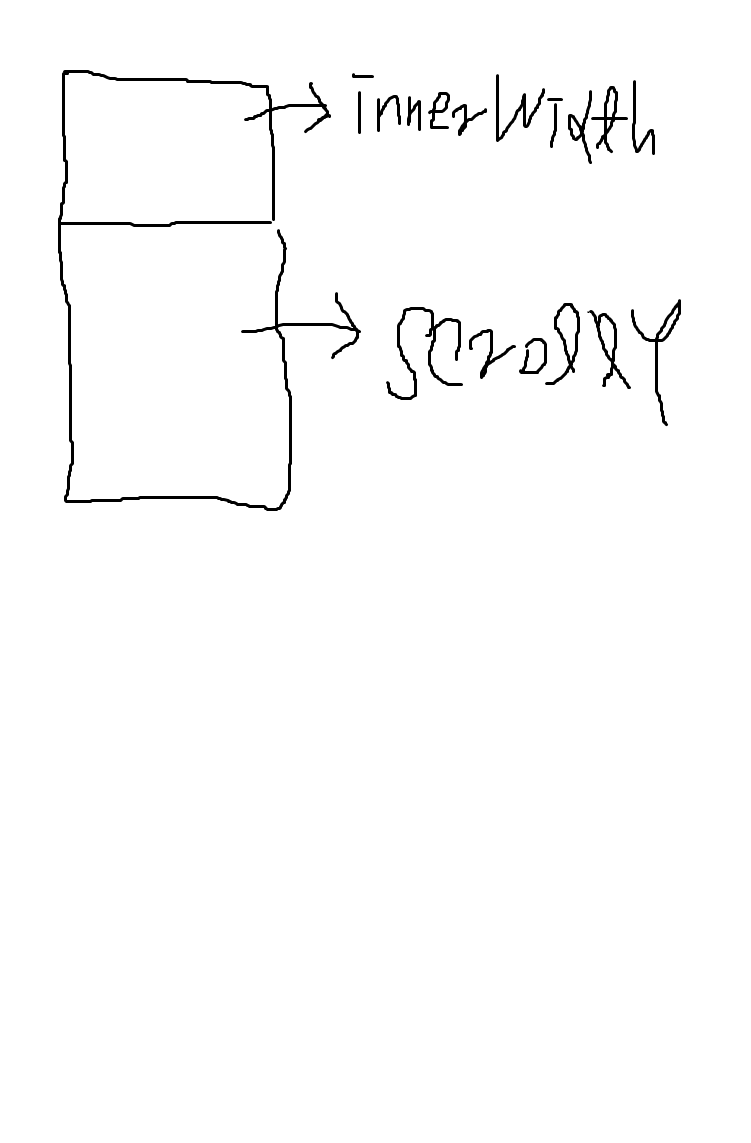
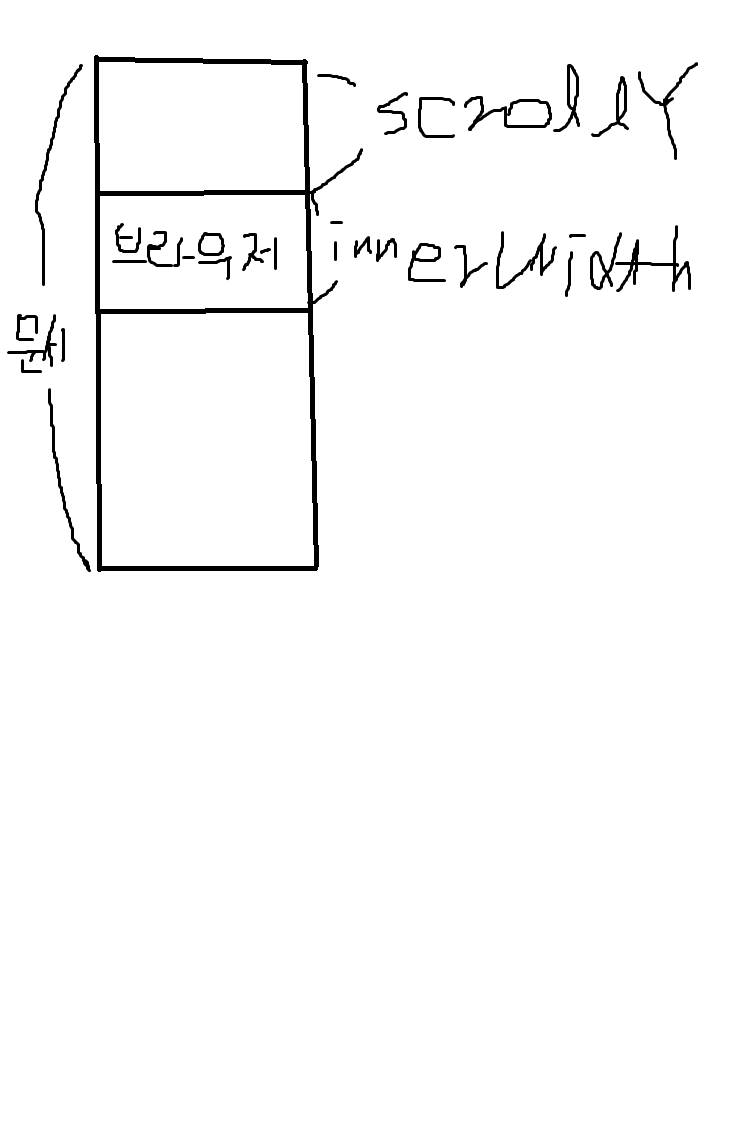
27.Create Slide-In-On-Scroll.md

Changed region(s): [[0.0, 0.0306, 0.9188, 0.5206], [0.4594, 0.2143, 0.9188, 0.3675]]

diff --git a/Day-13(Slide-In-On-Scroll)/Slide-In-On-Scroll.md b/Day-13(Slide-In-On-Scroll)/Slide-In-On-Scroll.md
@@ -1,0 +1,80 @@
+## Demo
+
+<a href="https://shigatsuel.github.io/javascript30-challenge/Day-13(Slide-In-On-Scroll)/index.html" target="_blank">Day 13 - Slide In On Scroll</a>
+
+## HTML 코드
+
+생략 / 깃헙주소 참고하시길 바랍니다.
+
+## JavaScript 코드
+
+```
+const slideImages = document.querySelectorAll(".slide-in");
+
+function checkSlide(e) {
+  slideImages.forEach((slideImage) => {
+    // half way through the image
+    const slideInAt =
+      window.scrollY + window.innerHeight - slideImage.height / 2;
+    // bottom of the image
+    const imageBottom = slideImage.offsetTop + slideImage.height;
+
+    const isHalfShown = slideInAt > slideImage.offsetTop;
+    const isNotScrolledPast = window.scrollY < imageBottom;
+    if (isHalfShown && isNotScrolledPast) {
+      slideImage.classList.add("active");
+    } else {
+      slideImage.classList.remove("active");
+    }
+  });
+}
+
+function debounce(func, wait = 20, immediate = true) {
+  var timeout;
+  return function () {
+    var context = this,
+      args = arguments;
+    var later = function () {
+      timeout = null;
+      if (!immediate) func.apply(context, args);
+    };
+    var callNow = immediate && !timeout;
+    clearTimeout(timeout);
+    timeout = setTimeout(later, wait);
+    if (callNow) func.apply(context, args);
+  };
+}
+
+function init() {
+  window.addEventListener("scroll", debounce(checkSlide));
+}
+
+init();
+```
+
+이번 챌린지는 내가 몰랐던 부분이기도 하고 처음해보느라 시간이 상당히 많이 걸렷다. 코드는 생각보다 몇 줄 안되는데 말이다.<br>
+그래도 그만큼 얻은 것이 많아서 힘이 나는 것 같다. :)<br>
+
+![JavaScript30-13-1.png](./JavaScript30-13-1.png)
+이번에는 글만으로는 어렵다고 생각해 그림을 참고해서 설명해보려고 합니다.<br>
+설명하기 앞서 window.innerWidth와 window.scrollY의 차이점을 알아야 하는데<br>
+window.innerWidth는 쉽게 스크린 상에서 브라우저 창의 크기라고 생각하면 된다.<br>
+그리고 window.scrollY는 문서상에서 지금 위치하고 있는 Y값을 의미한다.<br>
+
+그림이 좀 삐꾸같은데 예를들어 어느정도 스크롤 된 웹페이지에서 우리가 눈에 보이는 브라우저의 크기를 innerWidth라고 생각하면 된다. outerWidth도 있는데 일단은 넘어가자.<br>
+또한 scrollY는 문서에서 얼마나 스크롤 되어 있는지를 알 수 있다.<br><br>
+
+우리가 할 것은 슬라이드 이미지가 우리 눈에 보이기 시작하면 active클래스를 추가하고 보이지 않으면 삭제하는 것이다.<br>
+여기서는 4가지를 정의했다.<br>
+`1⃣slideInAt -> 슬라이드이미지의 절반이 보이기 시작할 때 쯤의 Y값이다. 스크롤 된 Y값과 브라우저 innerWidth를 더한 후 슬라이드 이미지의 절반만큼 뺐다.`<br>
+`2⃣imageBottom -> 이미지의 상대적 y값인 offsetY에 이미지 높이를 더해 이미지 바닥의 Y값을 구했다.`<br>
+`3⃣isHalfShown -> 이미지의 반이 보이기 시작하면 true가 된다.`<br>
+`4⃣isNotScrolledPast -> 이미지의 바닥이 보일때까지만 true가 된다.`<br>
+
+즉, 아래 그림은 위의 규칙을 만족하고 있습니다.<br>
+![JavaScript30-13-2.png](./JavaScript30-13-2.png)<br>
+2번이 3번이 보이기 시작할 때 active클래스를 추가하고 1번이 4번보다 높아져서 이미지가 보이지 않기 시작할 때 active클래스를 삭제하는 것 입니다.<br>
+
+스크롤 이벤트는 매우 어려워보였는데 한 번 이해하고 나니까 이제 슬슬 이해가 가기 시작한다.<br>
+페이징 기법을 만들어보는 것도 아마 load이벤트를 사용하면 가능하지 않을까?<br>
+나중에 해봐야겠다.<br>

diff --git a/README.md b/README.md
@@ -40,3 +40,4 @@
 | 10  | <a href="https://shigatsuel.github.io/javascript30-challenge/Day-10(Hold-Shift-to-Check-Multiple-Checkboxes)/index.html" target="_blank">Day 10 - Hold Shift to Check Multiple Checkboxes</a> | 20.11.13 |
 | 11  |               <a href="https://shigatsuel.github.io/javascript30-challenge/Day-11(Custom-HTML5-Video-Player)/index.html" target="_blank">Day 11 - Custom HTML5 Video Player</a>               | 20.11.13 |
 | 12  |                  <a href="https://shigatsuel.github.io/javascript30-challenge/Day-12(Key-Sequence-Detection)/index.html" target="_blank">Day 12 - Key Sequence Detection</a>                  | 20.11.13 |
+| 13  |                      <a href="https://shigatsuel.github.io/javascript30-challenge/Day-13(Slide-In-On-Scroll)/index.html" target="_blank">Day 13 - Slide In On Scroll</a>                      | 20.11.13 |
